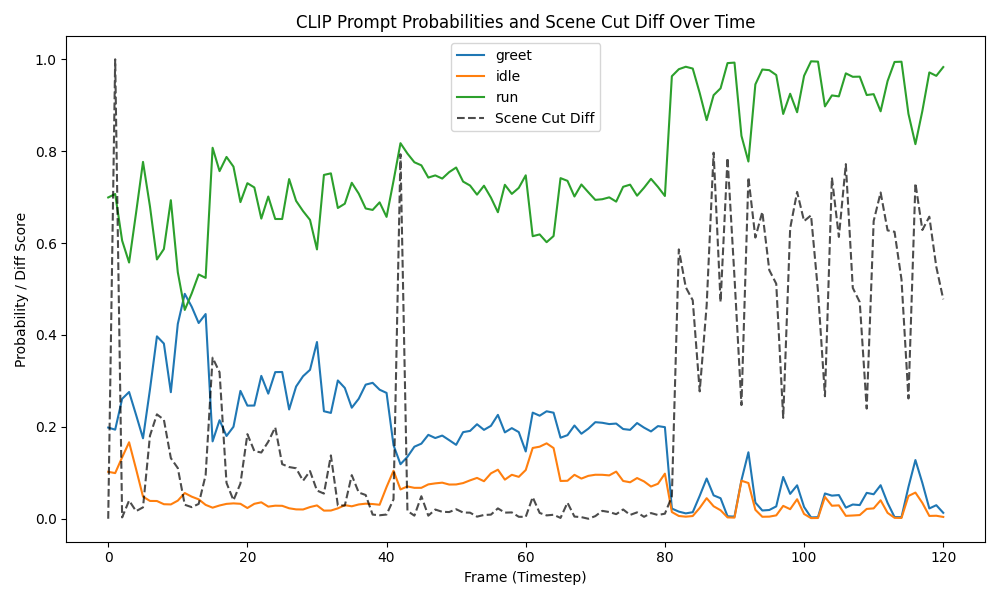
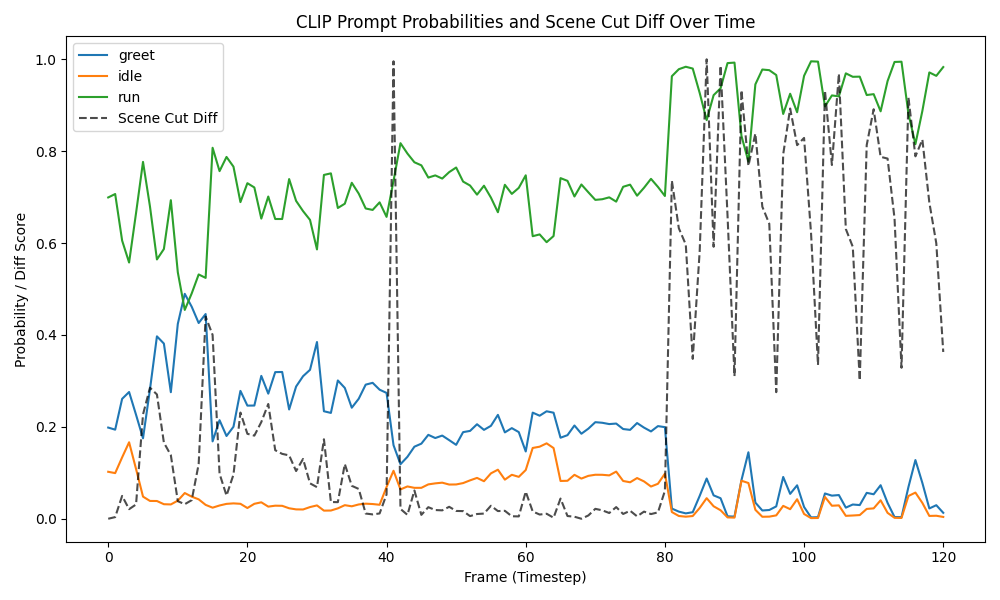
stuff

Changed region(s): [[0.279, 0.12, 0.961, 0.87], [0.093, 0.06, 0.279, 0.87], [0.496, 0.06, 0.589, 0.21]]

diff --git a/scripts/clip_score_v2.py b/scripts/clip_score_v2.py
@@ -15,8 +15,6 @@ def get_clip_scores_batch(images, prompts, model, processor):
         logits_per_image = outputs.logits_per_image  # shape: [n_frames, n_prompts]
         scores = logits_per_image.softmax(dim=1).tolist()
     return scores  # shape: [n_frames, n_prompts]
-
-
 def main(webp_path, prompts=None, batch_size=32, model_name="openai/clip-vit-base-patch16"):
     """
     Compute CLIP scores for all frames in a webp animation file.
@@ -66,21 +64,42 @@ def main(webp_path, prompts=None, batch_size=32, model_name="openai/clip-vit-bas
     if len(diff_scores) < num_frames:
         diff_scores = [0.0] + diff_scores
 
-    # Plot the probabilities for each prompt over timesteps and the diff scores
+    # Plot the first derivative of probabilities for each prompt over timesteps and the diff scores
     all_scores_tensor = torch.tensor(all_scores)  # shape: [num_frames, num_prompts]
     timesteps = range(num_frames)
     plt.figure(figsize=(10, 6))
+    derivatives = []
     for i, prompt in enumerate(prompts):
-        plt.plot(timesteps, all_scores_tensor[:, i], label=prompt)
+        # Compute first derivative (difference between consecutive frames)
+        derivative = all_scores_tensor[:, i].numpy()
+        derivative = derivative[1:] - derivative[:-1]
+        abs_derivative = abs(derivative)
+        derivatives.append(abs_derivative)
+        plt.plot(timesteps[1:], derivative, label=f"{prompt} (derivative)")
     # Plot diff scores (scene cut diff)
     plt.plot(timesteps, diff_scores, label='Scene Cut Diff', color='black', linestyle='--', alpha=0.7)
+
+    # Compute Euclidean norm of absolute derivatives for each frame (excluding first frame)
+    if derivatives:
+        # Stack derivatives: shape [num_prompts, num_frames-1]
+        derivatives_arr = torch.stack([torch.tensor(d) for d in derivatives])  # shape: [num_prompts, num_frames-1]
+        # Euclidean norm across prompts for each frame
+        euclidean_norm = torch.sqrt(torch.sum(derivatives_arr ** 2, dim=0)).numpy()  # shape: [num_frames-1]
+    else:
+        euclidean_norm = None
+    diff_scores_arr = torch.tensor(diff_scores[1:])  # skip first frame for alignment
+    # Weighted average: 0.25 * euclidean_norm + 0.75 * diff_score
+    if euclidean_norm is not None:
+        weighted_avg = euclidean_norm + diff_scores_arr.numpy()
+        plt.plot(timesteps[1:], weighted_avg, label='Weighted Avg (Euclidean Derivatives & Diff)', color='red', linewidth=2)
+
     plt.xlabel('Frame (Timestep)')
-    plt.ylabel('Probability / Diff Score')
-    plt.title('CLIP Prompt Probabilities and Scene Cut Diff Over Time')
+    plt.ylabel('First Derivative / Diff Score')
+    plt.title('First Derivative of CLIP Prompt Probabilities and Scene Cut Diff Over Time')
     plt.legend()
     plt.tight_layout()
-    plt.savefig('outputs/clip_scores_plot.png')
-    print('Plot saved as clip_scores_plot.png')
+    plt.savefig('outputs/clip_scores_derivative_plot.png')
+    print('Plot saved as clip_scores_derivative_plot.png')
 
 if __name__ == "__main__":
     fire.Fire(main)
